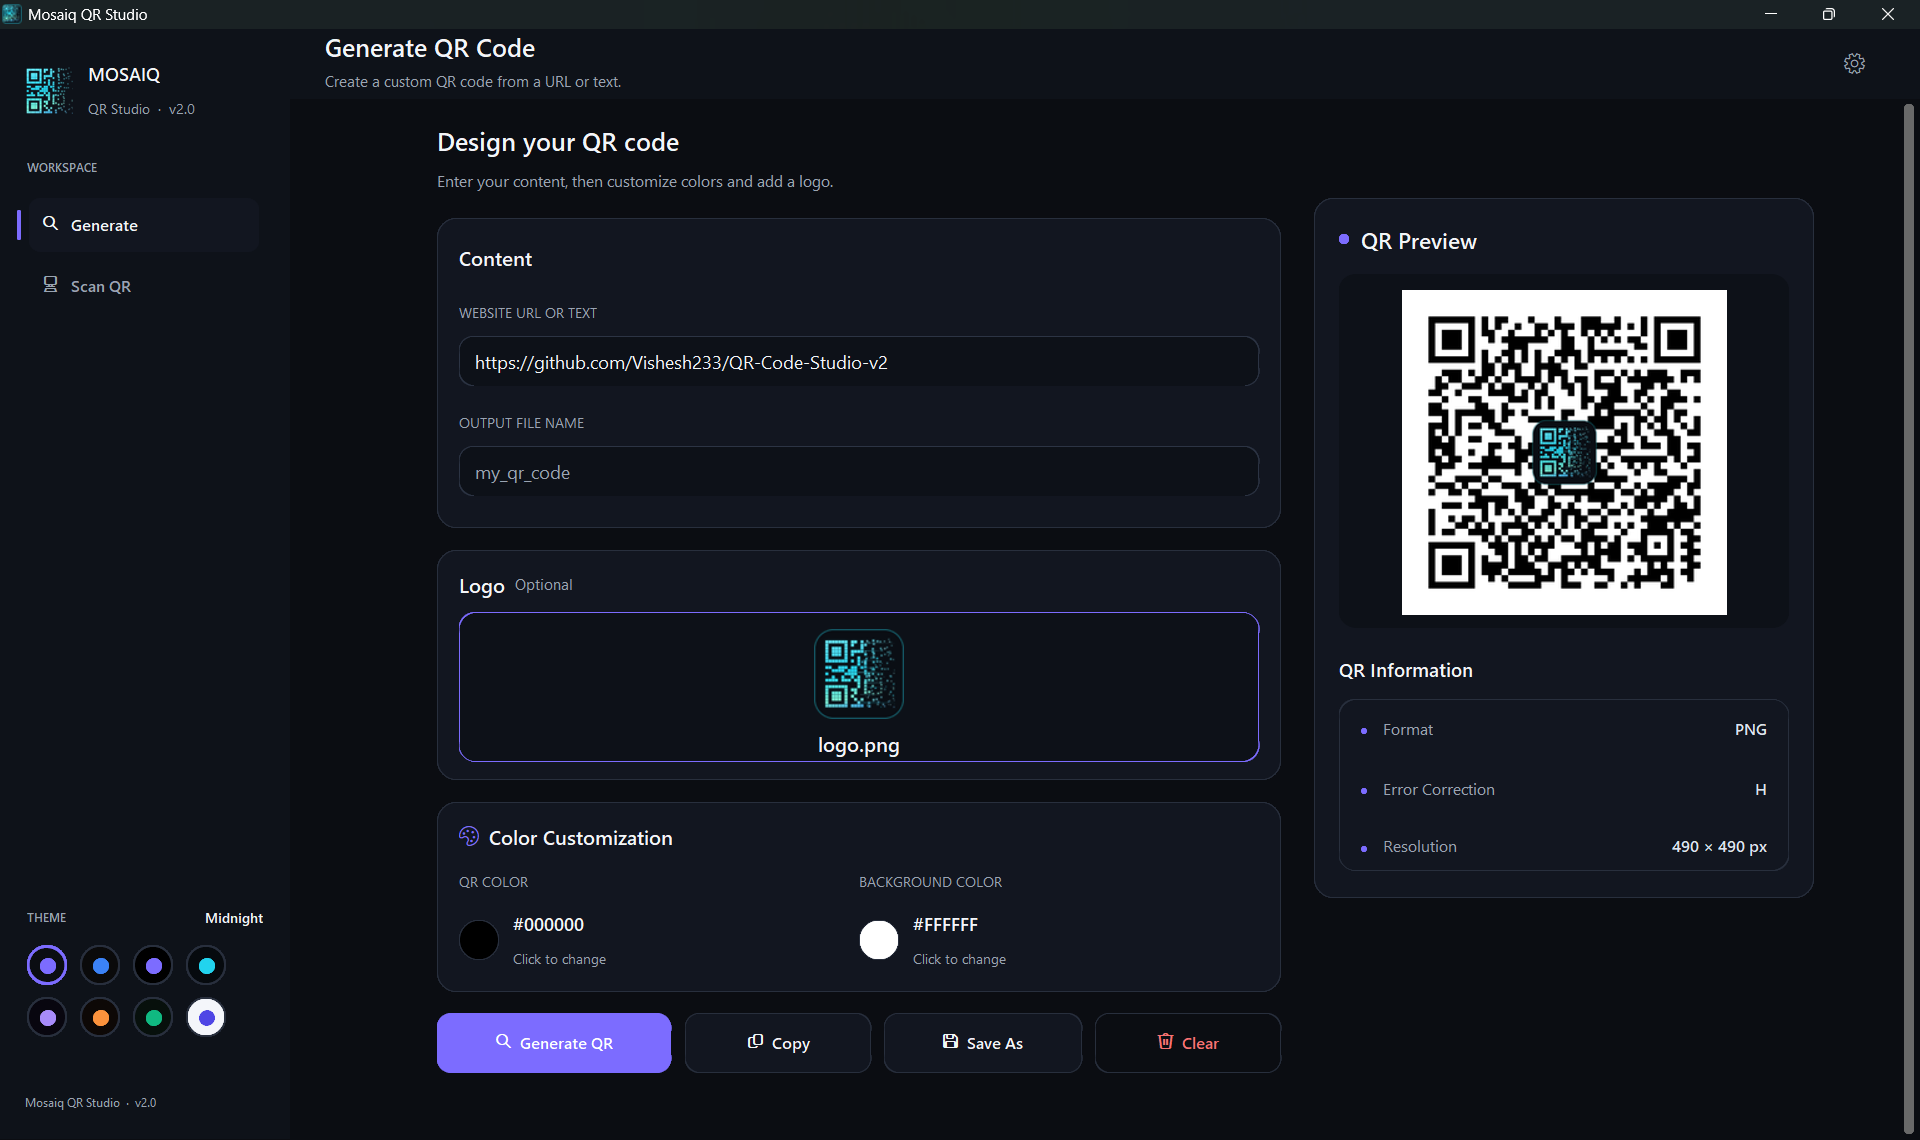
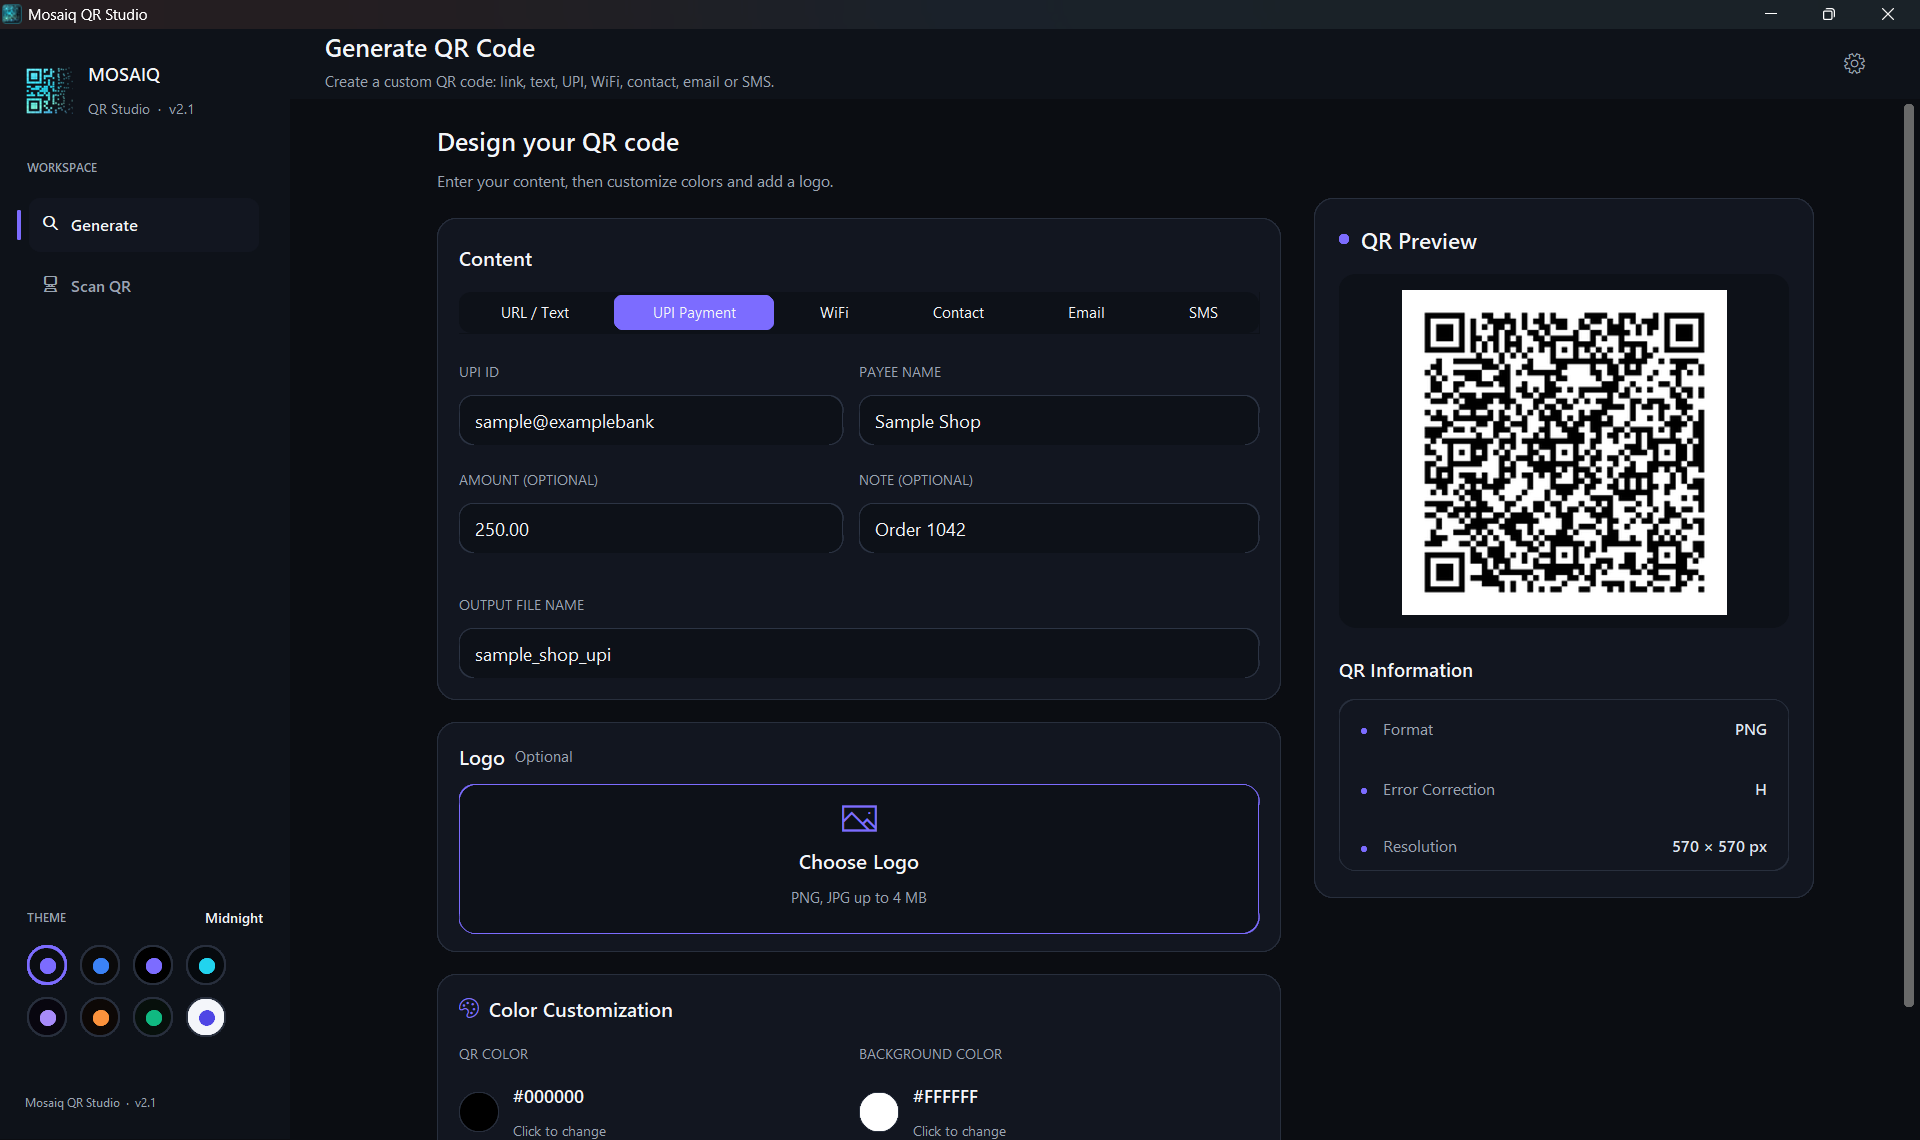
Store screenshots for v2.1 (sample data only); smoke test no longer changes saved settings

diff --git a/_smoke_test.py b/_smoke_test.py
@@ -11,7 +11,7 @@ import sys
 os.environ.setdefault("PYTHONUTF8", "1")
 
 
-def main():
+def _run():
     # Import AFTER cwd is the repo root so package imports resolve.
     from ui.app import QRCodeStudioApp
 
@@ -407,6 +407,28 @@ def main():
         sys.exit(1)
 
     print("SMOKE_OK: nav, generate, all 6 QR types, decode-roundtrip, settings dialog all ran")
+
+
+def main():
+    """Run the checks without leaving the tester's saved settings changed."""
+    from utils import settings_store
+
+    path = settings_store._settings_path()
+    try:
+        with open(path, "rb") as fh:
+            saved = fh.read()
+    except OSError:
+        saved = None
+
+    try:
+        _run()
+    finally:
+        if saved is None:
+            if os.path.exists(path):
+                os.remove(path)
+        else:
+            with open(path, "wb") as fh:
+                fh.write(saved)
 
 
 if __name__ == "__main__":

diff --git a/packaging/msix/STORE_LISTING.md b/packaging/msix/STORE_LISTING.md
@@ -123,10 +123,10 @@ QR code · QR generator · QR scanner · QR code maker · WiFi QR · UPI QR · Q
 
 | File | Caption |
 |---|---|
-| `assets/images/generate.png` | Design a QR code with your colours, a logo and a live preview |
+| `assets/images/generate.png` | Make a UPI, WiFi, contact, email or SMS code (or a link) with your colours and logo |
 | `assets/images/scan.png` | Scan a QR code from an image, the clipboard, your screen or your webcam |
 | `assets/images/theme_settings.png` | Eight themes with live preview |
-| `assets/images/light_mode.png` | Light mode with the Daylight theme |
+| `assets/images/light_mode.png` | The light Daylight theme, scanning a UPI code |
 | `assets/thumbnail/qr-studio-splash-1920x1080.png` | The intro animation (can be turned off) |
 
 The package already contains the app's logos (rendered by `make_assets.py`), so the
